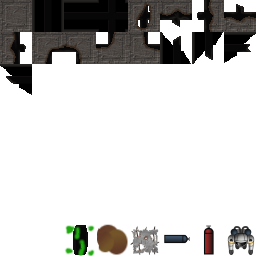
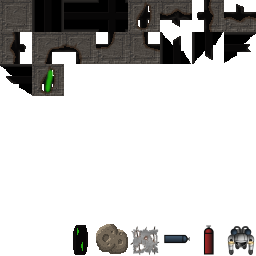
Plasma

Changed region(s): [[0.25, 0.875, 0.5, 1.0], [0.125, 0.25, 0.25, 0.375], [0.25, 0.875, 0.3125, 0.9375]]

diff --git a/src/scenes/gamescene.ts b/src/scenes/gamescene.ts
@@ -47,8 +47,8 @@ export class GameScene extends Scene {
     }
 
     preload () {
-        this.load.tilemapTiledJSON('ship', 'maps/ship.tmj');
-        this.load.image('ship', 'assets/tilemap.png');
+        this.load.tilemapTiledJSON('ship', 'maps/karteship.tmj');
+        this.load.spritesheet('ship', 'assets/tilemap.png', {frameWidth: 32, frameHeight: 32});
 
         this.load.image('player', 'assets/player.png');
         this.load.image('lightmask', 'assets/lightmask.png');
@@ -56,6 +56,7 @@ export class GameScene extends Scene {
 
         this.load.image('plasma_conduit', 'assets/plasma_conduit.png');
         this.load.spritesheet('plasma_glow', 'assets/plasma_glow.png', { frameWidth: 32, frameHeight: 32});
+        this.load.spritesheet('plasma_tile_glow', 'assets/plasma_tile_glow.png', { frameWidth: 64, frameHeight: 64});
 
         this.load.image('asteroid', 'assets/asteroid.png');
         this.load.image('asteroid_big', 'assets/asteroid_big.png');
@@ -78,7 +79,7 @@ export class GameScene extends Scene {
     }
 
     create () {
-        this.anims.create({key: 'plasma_glow_flicker', frames: 'plasma_glow', frameRate:48, repeat:-1,});
+        this.anims.create({key: 'plasma_glow_flicker', frames: 'plasma_glow', frameRate:24, repeat:-1,});
         const worldWidth = 5000;
         const worldHeight = 5000;
         this.cursorKeys = this.input.keyboard.createCursorKeys();
@@ -117,6 +118,10 @@ export class GameScene extends Scene {
         this.map = this.add.tilemap('ship');
         const tiles = this.map.addTilesetImage('ship');
         const layer = this.map.createLayer(this.map.layers[0].name, tiles);
+        layer.forEachTile(tile => {
+            const tileWorldPos = layer.tileToWorldXY(tile.x, tile.y);
+            console.log(tile.index)
+        });
 
         layer.setCollisionByProperty({ collides: true });
         this.matter.world.convertTilemapLayer(layer);

diff --git a/src/entities/tileConduit.ts b/src/entities/tileConduit.ts
@@ -1,0 +1,11 @@
+import { Body } from "matter";
+import { Textures, GameObjects, Scene, Physics } from "phaser";
+import { GameScene } from "../scenes/gamescene";
+
+export class TileConduit extends GameObjects.Sprite {
+    constructor (scene:GameScene, x:number, y:number) {
+        super(scene, x, y, 'plasma_tile_glow');
+        this.setDepth(2).play('plasma_tile_glow_flicker');
+        this.scene.add.existing(this);
+    }
+}
